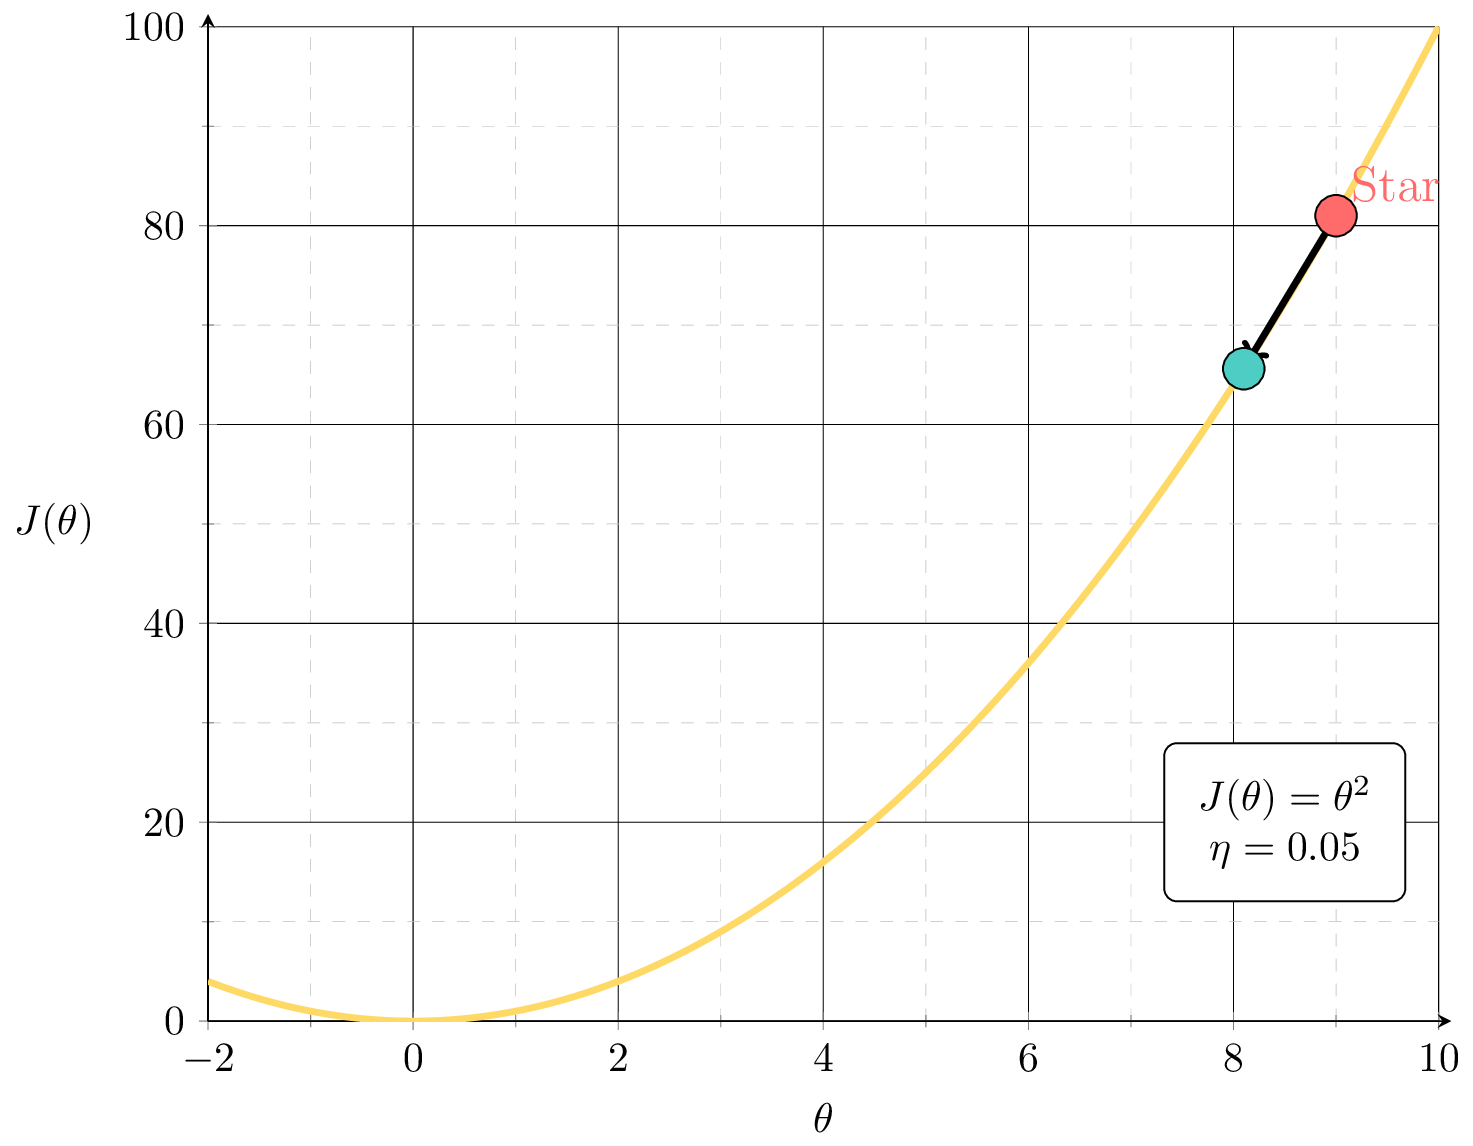
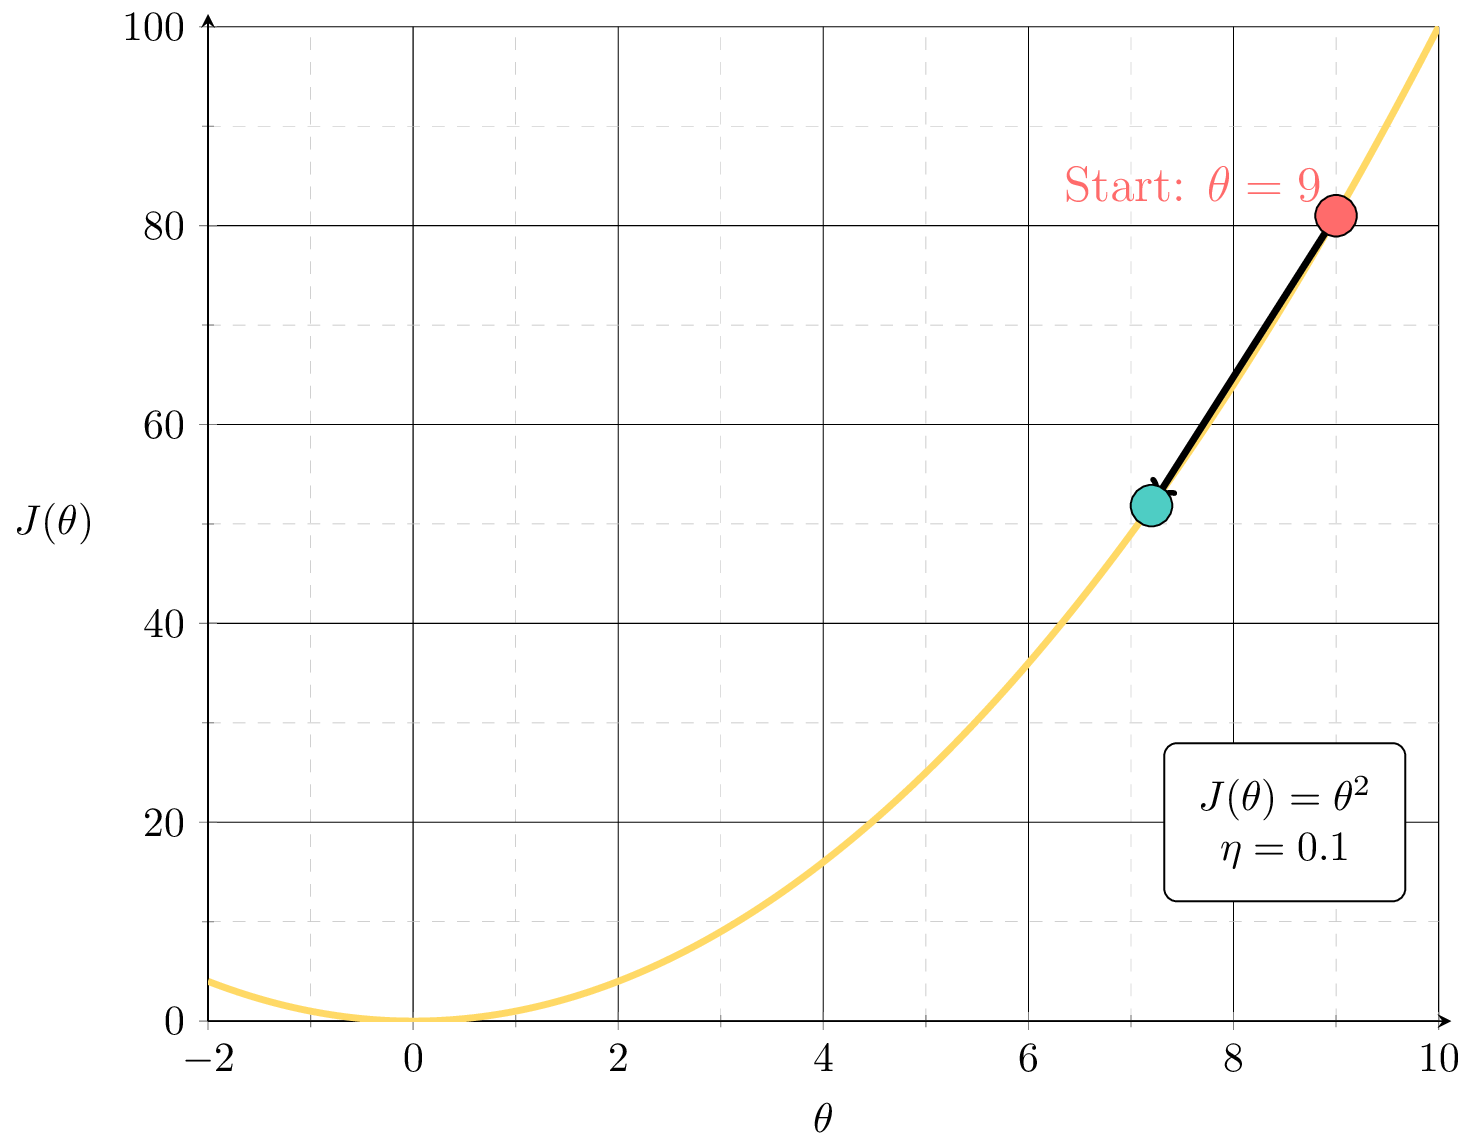
fix learning rate text "start"

diff --git a/gd/xsquared-gd.tex b/gd/xsquared-gd.tex
@@ -42,22 +42,22 @@
     
     % Calculate gradient descent step
     % At x=9, gradient = dJ/dx = 2x = 18
-    % New x = x - learning_rate * gradient = 9 - 0.05 * 18 = 9 - 0.9 = 8.1
-    % New J = (8.1)^2 = 65.61
+    % New x = x - learning_rate * gradient = 9 - 0.1 * 18 = 9 - 1.8 = 7.2
+    % New J = (7.2)^2 = 51.84
     
     % End point after gradient descent
-    \addplot[only marks, mark=*, mark options={scale=2.5, fill=endcolor}] coordinates {(8.1,65.61)};
+    \addplot[only marks, mark=*, mark options={scale=2.5, fill=endcolor}] coordinates {(7.2,51.84)};
     
     % Draw arrow from start to end point
-    \addplot[->, ultra thick, color=black, shorten >=2pt, shorten <=2pt] coordinates {(9,81) (8.1,65.61)};
+    \addplot[->, ultra thick, color=black, shorten >=2pt, shorten <=2pt] coordinates {(9,81) (7.2,51.84)};
     
     % Add labels for the points
-    \node[above right, color=startcolor, font=\large] at (axis cs:9,81) {Start: $\theta=9$};
+    \node[above left, color=startcolor, font=\large] at (axis cs:9,81) {Start: $\theta=9$};
     
     % Add legend box with function notation and learning rate
     \node[draw=black, fill=white, rounded corners=3pt, inner sep=8pt, font=\normalsize, align=center] at (axis cs:8.5,20) {
       $J(\theta) = \theta^2$ \\
-      $\eta = 0.05$
+      $\eta = 0.1$
     };
     
   \end{axis}
